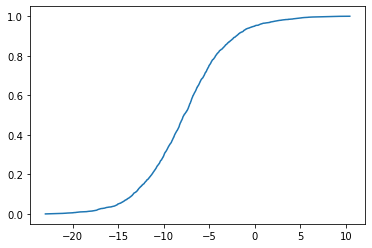
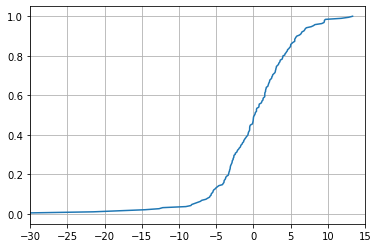
new update

diff --git a/SINR_computation.py b/SINR_computation.py
@@ -112,7 +112,7 @@ for link_idx in range(len(H[45])):
         h_n_45_list[link_idx, beam_idx,:] = h_n_45
 
 SINR_avg_list = []    
-for link_idx in range(len(H[45])):
+for link_idx in tqdm(range(len(H[45]))):
     serv_beam_idx = associ_indices[link_idx]
     #serv_beam_idx = int(np.floor(link_idx/10))
    # print(serv_beam_idx)
@@ -138,6 +138,9 @@ for link_idx in range(len(H[45])):
     
     SINR_avg_list.append(10*np.log10(Tx_power_lin*rx_power_avg
                                      /(Tx_power_lin*itf_power_avg+noise_power)))
+    
+    if link_idx ==123:
+        print(rx_power_avg, itf_power_avg)
 
 # outside tiers are used only for wrap-around mechanism
 # we only consider UEs deployed in 19 center cells, inside 3 tiers

diff --git a/sat_three_gpp_chan_model.py b/sat_three_gpp_chan_model.py
@@ -654,7 +654,7 @@ class sat_three_gpp_channel_model(object):
                    H_n_cluster[0] = np.sqrt(K/(K+1))*H_los + np.sqrt(1/(K+1))*H_n_cluster[0]
                    
                # step 12: apply pathloss and shadowing for the channel coefficients
-               self.path_loss[i] += np.random.normal(0,1)*self.SF_list[i]
+               self.path_loss[i] += np.random.normal(0,abs(self.SF_list[i]))
                path_loss_lin_i = 10**(-0.05*self.path_loss[i])
                H_list.append(path_loss_lin_i* np.array(H_n_cluster))
                

diff --git a/drop_ue_in_hex_cell.py b/drop_ue_in_hex_cell.py
@@ -29,7 +29,7 @@ def drop_uniform_in_hexagon(R:float, n_points:int =10, center_point:list = [0,0]
         locations of vertices of hexagon
 
     """
- 
+
     
     x_len = 2*R
     y_len = np.sqrt(3)*R
@@ -38,6 +38,7 @@ def drop_uniform_in_hexagon(R:float, n_points:int =10, center_point:list = [0,0]
     # that are placed outside the hexagonal cell
     u_x = np.random.uniform(0,1,n_points*5)*x_len
     u_y = np.random.uniform(0,1,n_points*5) *y_len
+    
     u_xyz = np.column_stack((u_x,u_y, [0]*len(u_x)))
     
     x = u_xyz[:,0]
